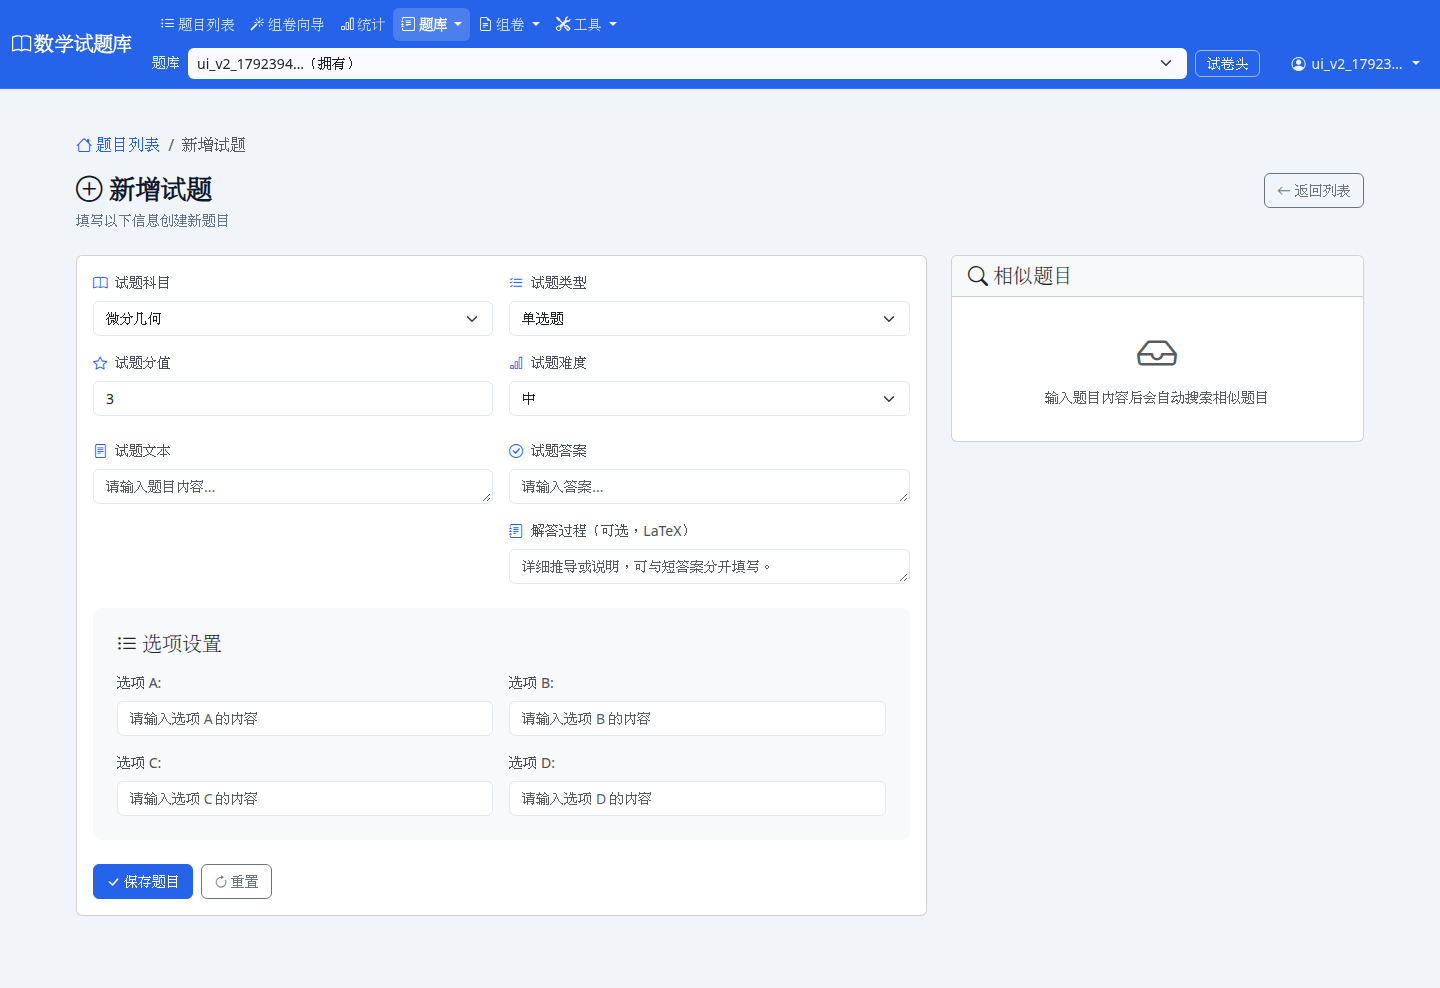
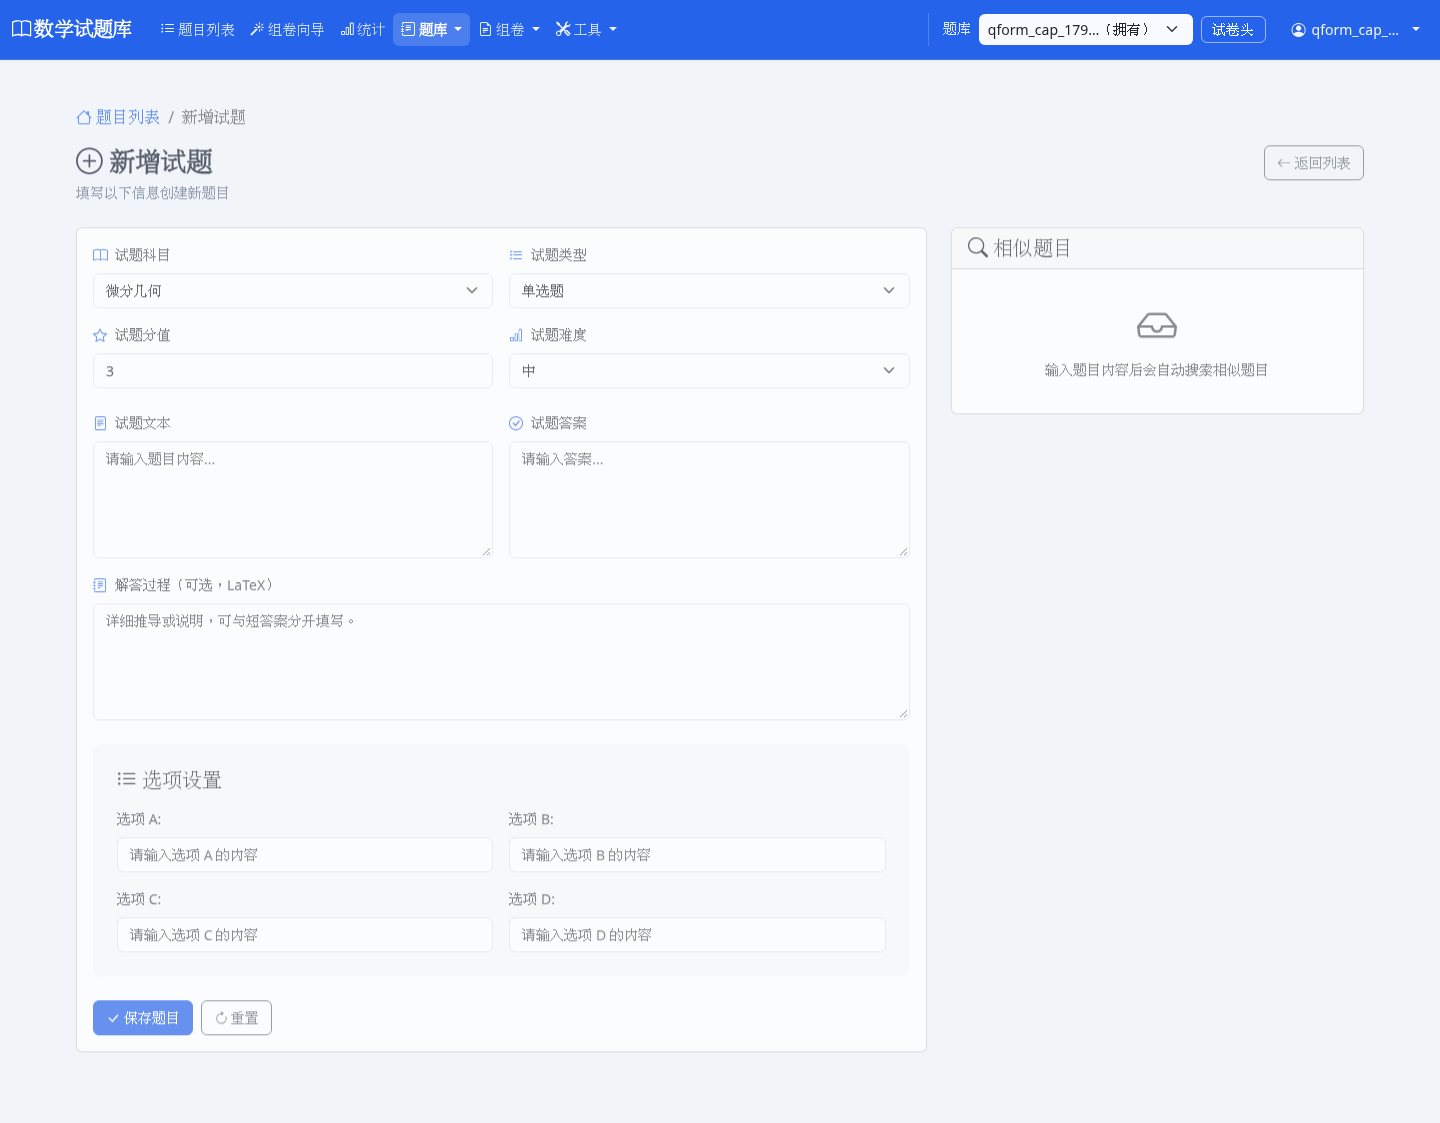
fix(questions): two-row stem layout with 5-line textareas
Place stem and answer side-by-side at md+, solution full width below.
Shared question-form CSS and e2e layout checks at 1440px.

diff --git a/e2e/tests/question-form-layout.spec.js b/e2e/tests/question-form-layout.spec.js
@@ -1,0 +1,115 @@
+const { test, expect } = require('@playwright/test');
+
+const apiBase = process.env.PLAYWRIGHT_API_URL || 'http://127.0.0.1:3000/api';
+
+async function registerAndLogin(page, uid) {
+  const password = 'E2EPass123!';
+  const email = `${uid}@example.com`;
+  await page.goto('/login', { waitUntil: 'domcontentloaded' });
+  await page.evaluate(async ({ apiBase: base, username, pass, mail }) => {
+    await fetch(`${base}/auth/register`, {
+      method: 'POST',
+      credentials: 'include',
+      headers: { 'Content-Type': 'application/json' },
+      body: JSON.stringify({ username, password: pass, email: mail }),
+    });
+    const loginRes = await fetch(`${base}/auth/login`, {
+      method: 'POST',
+      credentials: 'include',
+      headers: { 'Content-Type': 'application/json' },
+      body: JSON.stringify({ username, password: pass }),
+    });
+    if (!loginRes.ok) throw new Error(`login failed: ${loginRes.status}`);
+    const me = await fetch(`${base}/auth/me`, { credentials: 'include' }).then((r) => r.json());
+    if (me.user) localStorage.setItem('currentUser', JSON.stringify(me.user));
+    const banks = await fetch(`${base}/banks/mine`, { credentials: 'include' }).then((r) => r.json());
+    const personal = (banks.banks || []).find((b) => b.isPersonalDefault) || (banks.banks || [])[0];
+    if (personal) localStorage.setItem('currentBankId', personal._id);
+  }, { apiBase, username: uid, pass: password, mail: email });
+}
+
+async function createMinimalQuestion(page) {
+  return page.evaluate(async ({ apiBase: base }) => {
+    const bankId = localStorage.getItem('currentBankId');
+    const res = await fetch(`${base}/questions/create`, {
+      method: 'POST',
+      credentials: 'include',
+      headers: {
+        'Content-Type': 'application/json',
+        ...(bankId ? { 'X-Bank-Id': bankId } : {}),
+      },
+      body: JSON.stringify({
+        subject: '解析几何',
+        type: '填空题',
+        totalScore: 5,
+        difficulty: '中',
+        questionText: 'E2E 题干',
+        correctAnswer: 'E2E 答案',
+        solution: '',
+      }),
+    });
+    if (!res.ok) throw new Error(`create question failed: ${res.status}`);
+    const data = await res.json();
+    return data._id;
+  }, { apiBase });
+}
+
+async function assertStemPairLayout(page) {
+  const metrics = await page.evaluate(() => {
+    const text = document.getElementById('questionText');
+    const answer = document.getElementById('questionAnswer');
+    const solution = document.getElementById('questionSolution');
+    const form = text?.closest('form');
+    if (!text || !answer || !solution || !form) return null;
+
+    const textStyle = getComputedStyle(text);
+    const lineHeight = parseFloat(textStyle.lineHeight) || parseFloat(textStyle.fontSize) * 1.5;
+    const textBox = text.getBoundingClientRect();
+    const answerBox = answer.getBoundingClientRect();
+    const solutionBox = solution.getBoundingClientRect();
+    const formBox = form.getBoundingClientRect();
+
+    return {
+      textTop: textBox.top,
+      answerTop: answerBox.top,
+      textHeight: textBox.height,
+      answerHeight: answerBox.height,
+      minFiveLines: lineHeight * 5,
+      solutionWidth: solutionBox.width,
+      formWidth: formBox.width,
+    };
+  });
+
+  expect(metrics).toBeTruthy();
+  expect(Math.abs(metrics.textTop - metrics.answerTop)).toBeLessThan(2);
+  expect(metrics.textHeight).toBeGreaterThanOrEqual(metrics.minFiveLines - 2);
+  expect(metrics.answerHeight).toBeGreaterThanOrEqual(metrics.minFiveLines - 2);
+  expect(Math.abs(metrics.textHeight - metrics.answerHeight)).toBeLessThan(4);
+  expect(metrics.solutionWidth).toBeGreaterThanOrEqual(metrics.formWidth * 0.95);
+}
+
+test.describe('question form stem layout at 1440px', () => {
+  test.beforeEach(async ({ page }) => {
+    await page.setViewportSize({ width: 1440, height: 900 });
+  });
+
+  test('question-add side-by-side stem and answer', async ({ page }) => {
+    const uid = `qform_add_${Date.now()}`;
+    await registerAndLogin(page, uid);
+    await page.goto('/question-add', { waitUntil: 'domcontentloaded' });
+    const skip = page.getByTestId('onboarding-skip');
+    if (await skip.isVisible().catch(() => false)) await skip.click();
+    await expect(page.getByTestId('question-form-text')).toBeVisible({ timeout: 15000 });
+    await assertStemPairLayout(page);
+  });
+
+  test('question-edit side-by-side stem and answer', async ({ page }) => {
+    const uid = `qform_edit_${Date.now()}`;
+    await registerAndLogin(page, uid);
+    const qid = await createMinimalQuestion(page);
+    expect(qid).toBeTruthy();
+    await page.goto(`/question-edit/${qid}`, { waitUntil: 'domcontentloaded' });
+    await expect(page.getByTestId('question-form-text')).toBeVisible({ timeout: 15000 });
+    await assertStemPairLayout(page);
+  });
+});

diff --git a/frontend/src/components/QuestionAdd.vue b/frontend/src/components/QuestionAdd.vue
@@ -101,8 +101,8 @@
                 </div>
 
                 <!-- 题目和答案 -->
-                <div class="row g-3 mb-4">
-                  <div class="col-md-6">
+                <div class="row g-3 mb-3 question-form-stem-pair">
+                  <div class="col-12 col-md-6 question-form-stem-col">
                     <label for="questionText" class="form-label">
                       <i class="bi bi-file-text"></i> 试题文本
                     </label>
@@ -110,32 +110,39 @@
                       id="questionText"
                       v-model="questionText"
                       @input="performSearch"
-                      class="form-control form-textarea-auto"
-                      rows="8"
+                      class="form-control form-textarea-auto question-form-field-textarea"
+                      rows="5"
+                      data-testid="question-form-text"
                       placeholder="请输入题目内容..."
                       required
                     ></textarea>
                   </div>
-                  <div class="col-md-6">
+                  <div class="col-12 col-md-6 question-form-stem-col">
                     <label for="questionAnswer" class="form-label">
                       <i class="bi bi-check-circle"></i> 试题答案
                     </label>
                     <textarea
                       id="questionAnswer"
                       v-model="questionAnswer"
-                      class="form-control form-textarea-auto"
+                      class="form-control form-textarea-auto question-form-field-textarea"
                       rows="5"
+                      data-testid="question-form-answer"
                       placeholder="请输入答案..."
                       required
                     ></textarea>
-                    <label for="questionSolution" class="form-label mt-3">
+                  </div>
+                </div>
+                <div class="row g-3 mb-4">
+                  <div class="col-12 question-form-solution-col">
+                    <label for="questionSolution" class="form-label">
                       <i class="bi bi-journal-text"></i> 解答过程（可选，LaTeX）
                     </label>
                     <textarea
                       id="questionSolution"
                       v-model="questionSolution"
-                      class="form-control form-textarea-auto"
-                      rows="6"
+                      class="form-control form-textarea-auto question-form-field-textarea"
+                      rows="5"
+                      data-testid="question-form-solution"
                       placeholder="详细推导或说明，可与短答案分开填写。"
                     ></textarea>
                   </div>

diff --git a/frontend/src/components/QuestionEdit.vue b/frontend/src/components/QuestionEdit.vue
@@ -88,38 +88,45 @@
             </div>
 
             <!-- 题目和答案 -->
-            <div class="row g-3 mb-4">
-              <div class="col-md-6">
+            <div class="row g-3 mb-3 question-form-stem-pair">
+              <div class="col-12 col-md-6 question-form-stem-col">
                 <label for="questionText" class="form-label">
                   <i class="bi bi-file-text"></i> 试题文本
                 </label>
                 <textarea
                   id="questionText"
                   v-model="questionText"
-                  class="form-control form-textarea-auto"
-                  rows="8"
+                  class="form-control form-textarea-auto question-form-field-textarea"
+                  rows="5"
+                  data-testid="question-form-text"
                   required
                 ></textarea>
               </div>
-              <div class="col-md-6">
+              <div class="col-12 col-md-6 question-form-stem-col">
                 <label for="questionAnswer" class="form-label">
                   <i class="bi bi-check-circle"></i> 试题答案
                 </label>
                 <textarea
                   id="questionAnswer"
                   v-model="questionAnswer"
-                  class="form-control form-textarea-auto"
+                  class="form-control form-textarea-auto question-form-field-textarea"
                   rows="5"
+                  data-testid="question-form-answer"
                   required
                 ></textarea>
-                <label for="questionSolution" class="form-label mt-3">
+              </div>
+            </div>
+            <div class="row g-3 mb-4">
+              <div class="col-12 question-form-solution-col">
+                <label for="questionSolution" class="form-label">
                   <i class="bi bi-journal-text"></i> 解答过程（可选，LaTeX）
                 </label>
                 <textarea
                   id="questionSolution"
                   v-model="questionSolution"
-                  class="form-control form-textarea-auto"
-                  rows="6"
+                  class="form-control form-textarea-auto question-form-field-textarea"
+                  rows="5"
+                  data-testid="question-form-solution"
                   placeholder="与答案分开保存；单选题答案可填选项字母，详细推导写在此处。"
                 ></textarea>
               </div>

diff --git a/frontend/src/assets/design-system.css b/frontend/src/assets/design-system.css
@@ -312,6 +312,27 @@ main.app-main.with-navbar {
   field-sizing: content;
 }
 
+/* Question add/edit: row 1 stem + answer side-by-side at md+, solution full width below */
+.question-form-field-textarea.form-textarea-auto {
+  min-height: calc(1.5em * 5 + 0.75rem);
+}
+
+@media (min-width: 768px) {
+  .question-form-stem-pair {
+    align-items: stretch;
+  }
+
+  .question-form-stem-col {
+    display: flex;
+    flex-direction: column;
+  }
+
+  .question-form-stem-col .question-form-field-textarea {
+    flex: 1 1 auto;
+    width: 100%;
+  }
+}
+
 /* Badges */
 .badge-type {
   font-weight: 500;
